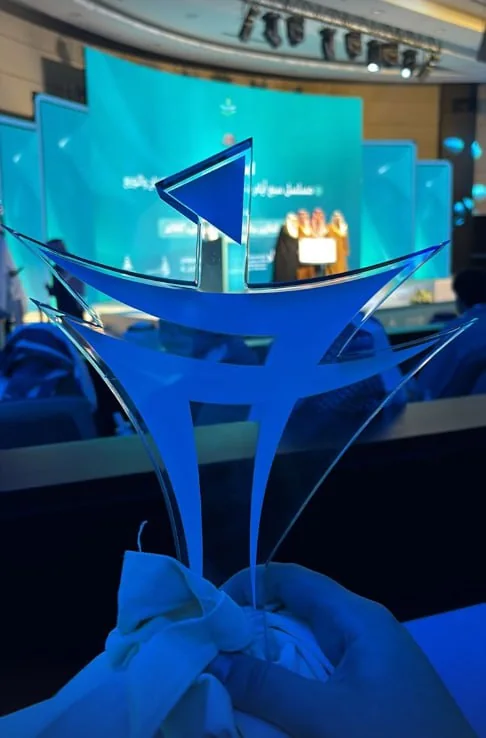
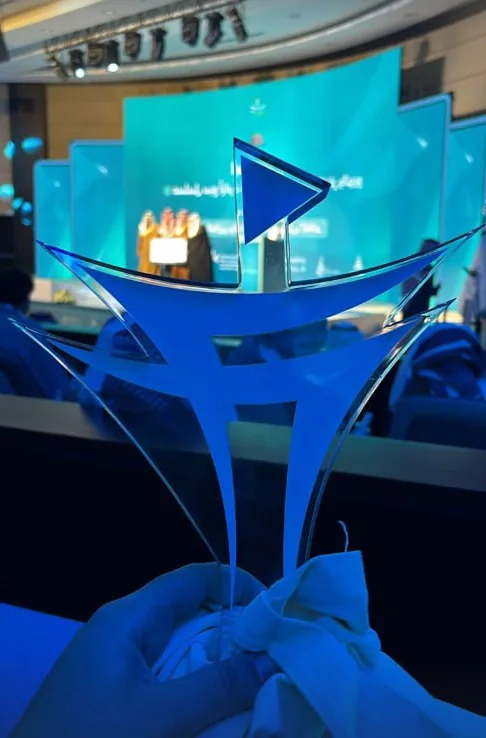
v4: cream إنجازاتنا, eyebrows clear of the tashkeel, figs on the scroll
Every eyebrow sat in the path of the tashkeel over the header below it.
Lift it in translate, so nothing in the flow moves and the headers keep
their place on the screen.

إنجازاتنا was a sheet of sun. It is creamy paper now, with a warm patch
of light on the side the table sits on. Each stat card carries a wash of
its own accent and its figure goes back to black, and everything that was
white against the yellow (the rays, the sparks, the tape, the strewn
sparkles) is warmed so it still reads.

The photo from the award night came off the phone mirrored: the screens
behind the trophy read backwards. Flip it in the build, so the piece
stays where it is placed.

القرد والغيلم's figs crept at a sixth of the scroll like a far field.
They hang in the page itself, so give that scene its own share of the
scroll: one to one, with depth changing their size and not their speed.

diff --git a/v4/css/sections.css b/v4/css/sections.css
@@ -892,9 +892,13 @@
   z-index: 3;                 /* the floor سراج lands on, and lands over */
   color: var(--ink);
   overflow: clip;
+  /* Creamy paper, with a warm patch of light on the side the table sits on
+     (the left, in the page's direction) so the rays and the white clouds
+     still have something to read against. */
   background:
-    radial-gradient(70% 60% at 100% 0%, #fbe389 0%, #fbe38900 70%),
-    linear-gradient(to bottom, #f8d443 0%, var(--sun) 45%, #f3c22c 100%);
+    radial-gradient(72% 58% at 14% 4%, #ffe7a8 0%, #ffe7a800 64%),
+    radial-gradient(58% 52% at 96% 92%, #fdf0cd 0%, #fdf0cd00 72%),
+    linear-gradient(to bottom, #fffdf6 0%, #fdf8ea 52%, #fbf4e2 100%);
 }
 .wins__layout {
   display: grid;
@@ -910,17 +914,19 @@
   gap: clamp(0.6rem, 1.2vw, 0.95rem);
 }
 
-/* --h is the pointer lift, sprung by wins.js */
+/* --h is the pointer lift, sprung by wins.js. Each card carries a wash of
+   its own accent, never enough to take the text off black. */
 .stat {
   --h: 0;
+  --tint: var(--stat-accent, var(--ember));
   position: relative;
   display: grid;
   gap: 0.1rem;
   padding: clamp(0.95rem, 1.7vw, 1.3rem) clamp(1.05rem, 1.9vw, 1.45rem);
   border-radius: 18px;
-  background: color-mix(in srgb, #fffdf6 calc(var(--h) * 100%), #fff7dcd9);
-  border: var(--hair) solid #ffffffa6;
-  box-shadow: 0 calc(6px + var(--h) * 12px) calc(18px + var(--h) * 16px) -14px #7a560066;
+  background: color-mix(in srgb, var(--tint) calc(10% + var(--h) * 6%), #fffefa);
+  border: var(--hair) solid color-mix(in srgb, var(--tint) calc(28% + var(--h) * 24%), #fffefa);
+  box-shadow: 0 calc(6px + var(--h) * 12px) calc(18px + var(--h) * 16px) -14px color-mix(in srgb, var(--tint) 55%, #32323200);
   translate: 0 calc(var(--h) * -5px);
   text-decoration: none;
   color: inherit;
@@ -933,7 +939,7 @@
   font-size: clamp(1.5rem, 2.4vw, 2.5rem);
   line-height: 1.05;
   white-space: nowrap; /* ٣٧٫٤ ألف is one figure, never two lines */
-  color: var(--stat-accent, var(--ember));
+  color: var(--ink);   /* the colour is in the wash and the mark, not the figure */
 }
 .stat__l { font-size: 0.875rem; color: var(--ink-70); }
 .stat__mark {
@@ -973,7 +979,7 @@
   position: absolute;
   inset: -12% -16%;
   z-index: 0;
-  background: radial-gradient(closest-side at 50% 40%, #fff7cf 0%, #fff4b800 100%);
+  background: radial-gradient(closest-side at 50% 40%, #ffe08f 0%, #ffdf8a00 100%);
 }
 .prize__rays {
   position: absolute;
@@ -983,7 +989,7 @@
   aspect-ratio: 1;
   translate: -50% -50%;
   z-index: 0;
-  background: repeating-conic-gradient(#ffffff42 0deg 5deg, #fff0 5deg 15deg);
+  background: repeating-conic-gradient(#f6c53a5c 0deg 5deg, #fff0 5deg 15deg);
   -webkit-mask: radial-gradient(closest-side, #000 12%, #0000 70%);
   mask: radial-gradient(closest-side, #000 12%, #0000 70%);
   animation: prize-turn 90s linear infinite;
@@ -1085,7 +1091,7 @@
   width: 12cqw;
   height: 3.6cqw;
   rotate: 38deg;
-  background: #ffffffc2;
+  background: #f6e6bcc7;
   box-shadow: 0 0.2cqw 0.6cqw #0000001f;
 }
 
@@ -1173,7 +1179,7 @@
   position: absolute;
   width: calc(var(--s, 1) * 3.2cqw);
   aspect-ratio: 1;
-  background: var(--c, #fff);
+  background: var(--c, var(--sun));
   -webkit-mask: var(--spark) center / contain no-repeat;
   mask: var(--spark) center / contain no-repeat;
   pointer-events: none;
@@ -1193,7 +1199,7 @@
    Drift is transform (util.js), the entrance is translate. */
 .prize .cloud {
   --cloud-color: #fff;
-  filter: blur(var(--blur, 0px));
+  filter: blur(var(--blur, 0px)) drop-shadow(0 0.6cqw 0.9cqw #c9a14a38);
   transition: translate 1.3s cubic-bezier(.2,.7,.3,1), opacity 1.3s ease;
 }
 .prize.is-armed:not(.is-in) .cloud { translate: 0 45%; opacity: 0; }

diff --git a/v4/js/scenes.js b/v4/js/scenes.js
@@ -239,6 +239,13 @@ const RECIPES = {
   figs: () => [['fig', 14]]
 };
 
+/* The share of the scroll the falling field takes, and whether depth slows
+   it. Nearly every scene's field sits far behind the page and creeps.
+   القرد والغيلم's figs hang in the page itself: they travel with it one to
+   one, and depth only changes their size, not their speed. */
+const SCROLL = { figs: { k: 1, depth: false } };
+const CREEP = { k: 0.16, depth: true };
+
 /* a soft round light, drawn once and stamped */
 function glow(color) {
   const c = document.createElement('canvas');
@@ -269,6 +276,7 @@ export function sceneCanvas(canvas, scene, th, onFrame, { box = null, density = 
   let H = 0;
   let dpr = 1;
   let parts = [];
+  const roll = SCROLL[scene] || CREEP;
 
   function resize() {
     const w = box ? box.clientWidth : innerWidth;
@@ -352,7 +360,7 @@ export function sceneCanvas(canvas, scene, th, onFrame, { box = null, density = 
         env.sy = p.y - ptr.y * p.z * 12;
       } else {
         env.sx = mod(p.x - ptr.x * p.z * 22 + M, W + M * 2) - M;
-        env.sy = mod(p.y - scroll * p.z * 0.16 - ptr.y * p.z * 12 + M, H + M * 2) - M;
+        env.sy = mod(p.y - scroll * (roll.depth ? p.z : 1) * roll.k - ptr.y * p.z * 12 + M, H + M * 2) - M;
       }
       ctx.setTransform(dpr, 0, 0, dpr, env.sx * dpr, env.sy * dpr);
       p.k.draw(ctx, p, t, env);

diff --git a/v4/index.html b/v4/index.html
@@ -273,7 +273,7 @@
      one under the pointer. The pieces are decoration: the figcaption says the
      same thing in words. -->
 <section class="section wins" id="wins" data-rail="BY THE NUMBERS · إِنْجَازَاتُنَا" data-rail-end="YOUTUBE · TIKTOK · DISCORD">
-  <i class="mark mark--sparkles strew" style="--mark-color: #fff; inset-block-start: 7%; inset-inline-start: 47%; width: 2.75rem; aspect-ratio: 1; --sway: 10s;" aria-hidden="true"></i>
+  <i class="mark mark--sparkles strew" style="--mark-color: var(--sun); inset-block-start: 7%; inset-inline-start: 47%; width: 2.75rem; aspect-ratio: 1; --sway: 10s;" aria-hidden="true"></i>
   <i class="mark mark--asterisk strew wins__asterisk" style="--mark-color: var(--ember); inset-block-end: 8%; inset-inline-start: 4%; width: 2.25rem; aspect-ratio: 1; --sway: 12s;" aria-hidden="true"></i>
   <i class="mark mark--spiral strew" style="--mark-color: var(--sky); inset-block-start: 11%; inset-inline-end: 3%; width: 3rem; aspect-ratio: 1; --sway: 14s; --r0: 6deg; --r1: -8deg;" aria-hidden="true"></i>
 

diff --git a/v4/js/wins.js b/v4/js/wins.js
@@ -13,7 +13,7 @@
 import { $, $$, el, clamp, reduced, tick, whileVisible, cloudDrift, spring, step, arabize } from './util.js';
 
 const DEAL = 150;            /* ms between one piece landing and the next */
-const BURST = ['#fff', 'var(--ember)', '#fff', 'var(--sky)'];
+const BURST = ['var(--sun)', 'var(--ember)', 'var(--sun)', 'var(--sky)'];
 const AR = '٠١٢٣٤٥٦٧٨٩';
 
 /* One loop for every spring in the section. It only ticks while

diff --git a/v4/css/base.css b/v4/css/base.css
@@ -135,6 +135,10 @@ h1, h2, h3 {
   flex-wrap: wrap;
   gap: 0.55em;
   align-items: center;
+  /* The tashkeel over the header below reaches up into this line. Lift the
+     eyebrow clear of it in translate, so nothing in the flow moves and the
+     headers keep their place on the screen. */
+  translate: 0 -0.5rem;
 }
 .eyebrow span::after {
   content: '·';

diff --git a/v4/tools/build-assets.py b/v4/tools/build-assets.py
@@ -299,8 +299,10 @@ def build_wins():
     that won, and the red grin drawn behind them (a mask, like the icons)."""
     d = ensure("img", "wins")
     folder = os.path.join("Art", "achievements")
-    total = save_webp(Image.open(src(folder, "award.jpg")).convert("RGB"),
-                      os.path.join(d, "night.webp"), quality=84)
+    # The photo came off the phone mirrored: the screens behind the trophy
+    # read backwards. Flip it here, so the piece stays where it is placed.
+    night = Image.open(src(folder, "award.jpg")).convert("RGB").transpose(Image.FLIP_LEFT_RIGHT)
+    total = save_webp(night, os.path.join(d, "night.webp"), quality=84)
     # The still catches a second character at its left edge. Square on ryan.
     still = Image.open(src(folder, "ryan.png")).convert("RGB").crop((70, 20, 680, 630))
     total += save_webp(still, os.path.join(d, "still.webp"), 460, quality=84)
